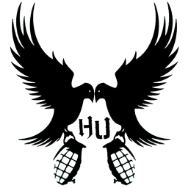
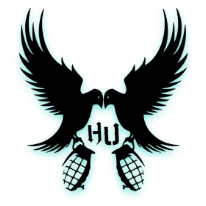
better index images

Changed region(s): [[0.0532, 0.0, 0.9574, 1.0]]

diff --git a/src/pages/Index.vue b/src/pages/Index.vue
@@ -7,12 +7,12 @@
         <g-image
           alt="Hollywood Undead"
           src="../../static/assets/hollywood-undead-sign.png"
-          class="m-16 px-8 w-full transition duration-300 ease-in-out opacity-90 hover:opacity-50 lg:w-1/3"
+          class="m-16 px-8 w-full lg:w-1/3 ownImg"
         />
         <g-image
           alt="Dove and grenade"
           src="../../static/assets/dove-and-grenade.png"
-          class="mx-16 w-full transition duration-300 ease-in-out opacity-90 hover:opacity-50 lg:w-1/6 lg:m-auto"
+          class="mx-16 w-full lg:w-1/6 lg:m-auto ownImg"
         />
       </section>
       <article class="flex justify-center text-center mx-5 lg:w-3/4 mb-4">
@@ -58,4 +58,12 @@ export default {
 };
 </script>
 
-<style></style>
+<style>
+.ownImg {
+  transition: 0.5s ease-in-out;
+}
+
+.ownImg:hover {
+  filter: hue-rotate(360deg);
+}
+</style>

diff --git a/src/components/NavigationMenu.vue b/src/components/NavigationMenu.vue
@@ -13,7 +13,7 @@
           class="absolute left-0 h-1 w-0 border-1 rounded-3xl bg-gradient-to-r from-teal-400 to-blue-600 ownNav__span"
         ></span>
       </li>
-      <DarkMode class="ml-20"></DarkMode>
+      <DarkMode class="lg:ml-20"></DarkMode>
     </ul>
   </nav>
 </template>
@@ -60,7 +60,7 @@ export default {
 }
 
 .theme-dark {
-  background: rgba(0, 0, 0, 0.863);
+  background: rgba(0, 0, 0, 0.952);
   color: white;
 }
 </style>
